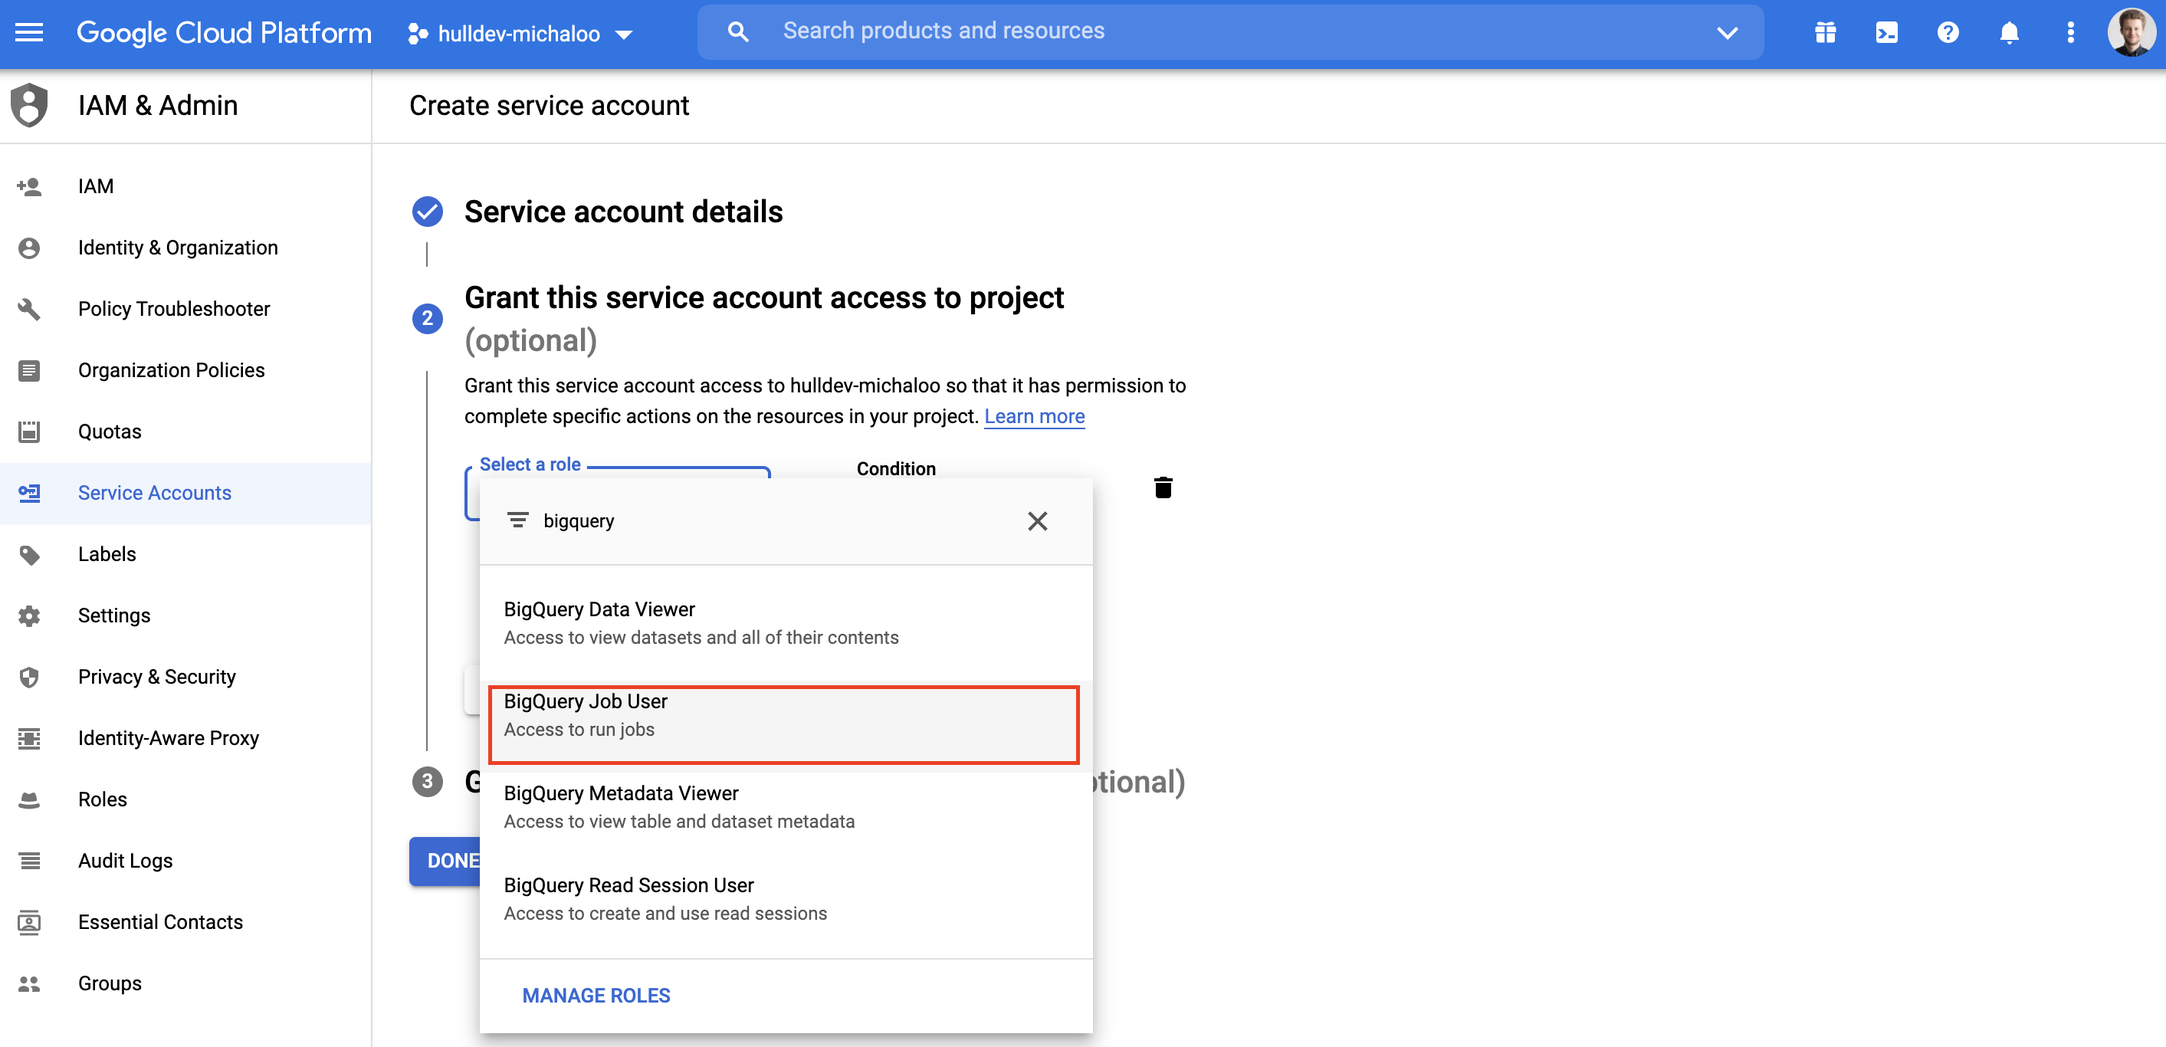
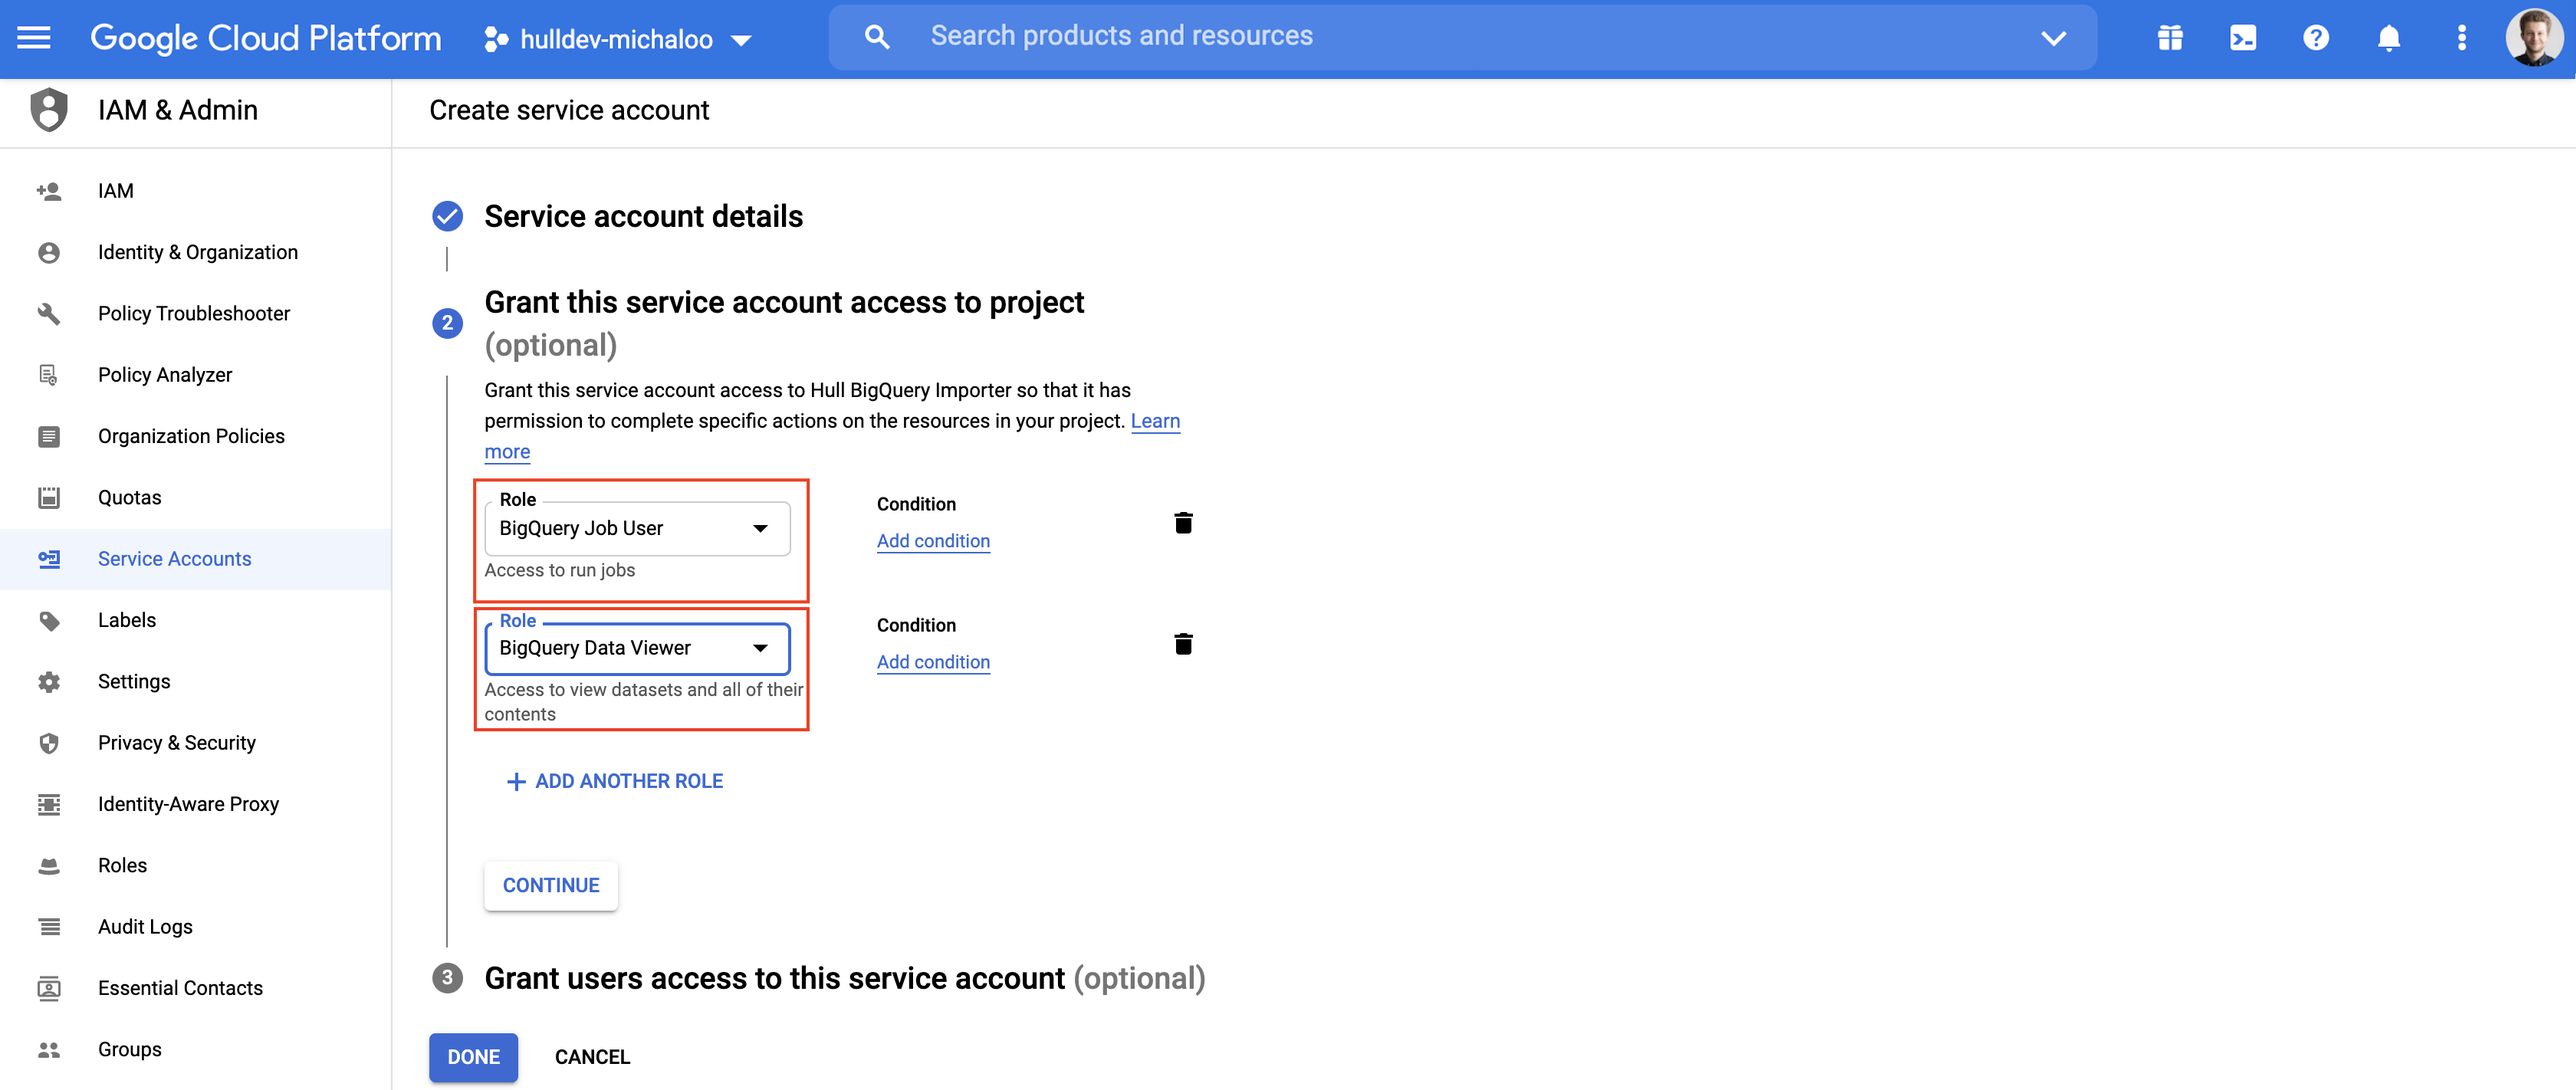
Update screenshot

diff --git a/packages/connectors/hull-bigquery/assets/readme.md b/packages/connectors/hull-bigquery/assets/readme.md
@@ -16,10 +16,11 @@ This requires provisioning a Service Account in your Google Cloud project. This 
 
 1. First, in Google Console navigate to `IAM & Admin > Service Accounts` with this [link](https://console.cloud.google.com/iam-admin/serviceaccounts), select your project and click `CREATE SERVICE ACCOUNT` at the top. This will show you a form to fill in details about a new service account. Pick a meaningful name and description here:
   ![Create Service Account Form](./docs/hull-bigquery-create-service-account-1.png)
-2. Click `CREATE` and assign this Service Account a `BigQuery Job User` and `BigQuery Data Viewer`. This can be adjusted later and any custom IAM role can be applied, but the connector needs access to the data you want to query (`bigquery.tables.getData` permission) and the two following BigQuery permissions:
+2. Click `CREATE` and assign this Service Account a `BigQuery Job User` and a `BigQuery Data Viewer` role. This can be adjusted later and any custom IAM role can be applied, but the connector needs access to the data you want to query (`bigquery.tables.getData` permission) and the two following BigQuery permissions:
   - `bigquery.jobs.create`
   - `bigquery.jobs.get`
-  Contact your Google Cloud Admin in case of concerns or questions.
+
+If you have any concerns about those permissions, contact your Google Cloud Admin.
   ![Create Service Account Form](./docs/hull-bigquery-create-service-account-2.png)
 3. You will be redirected to the list of Service Accounts, find the one you just created and click "Create Key":
   ![Create Service Account Form](./docs/hull-bigquery-create-service-account-3.png)
